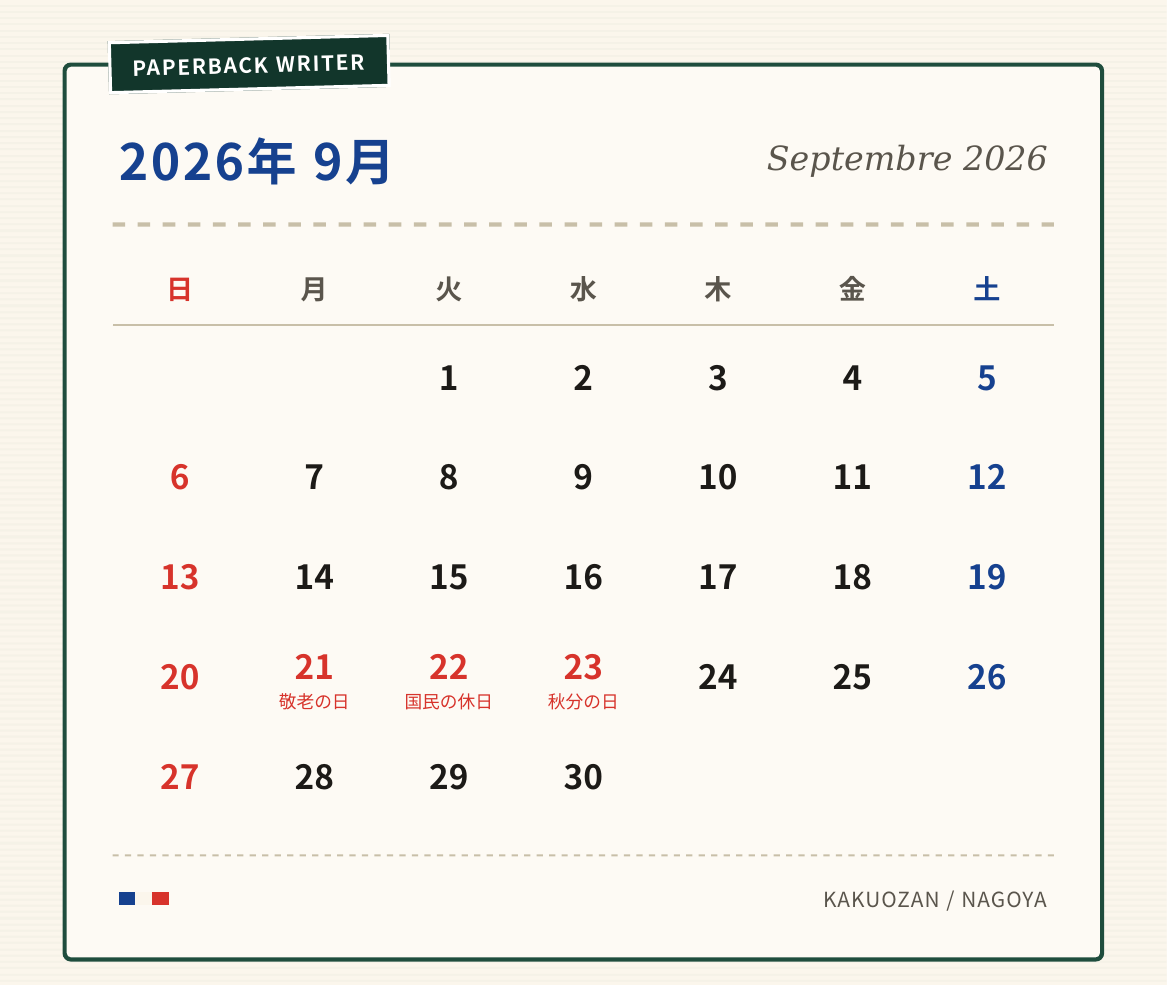
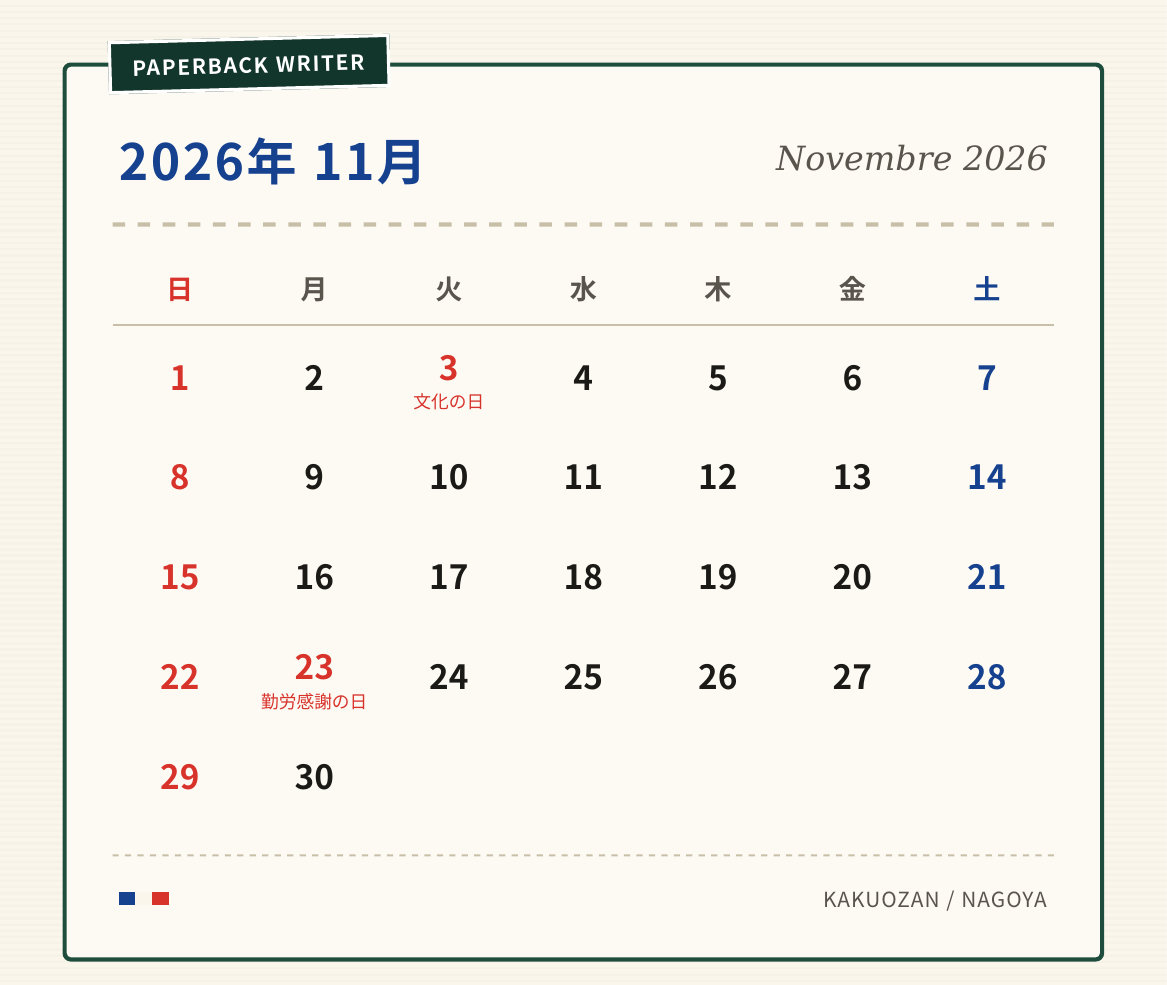
HOMEにスライドショー追加、11月カレンダーに差し替え
- index.html: 店名ブロックとナビの間にスライドショー（slide-1〜3.jpg、5秒ごとフェード自動送り、N°表示のみ）を追加
- slideshow.js: フェード切替ロジック（prefers-reduced-motion対応）
- style.css: .slideshow関連スタイルを追加（モバイル用レスポンシブ調整は維持）
- photos/calendar.png: 2026年11月の営業カレンダーに差し替え
- 地図リンクを正式住所のGoogleマップ検索URLに修正
- README.mdをv3の変更内容に更新

diff --git a/index.html b/index.html
@@ -9,6 +9,7 @@
 <link rel="preconnect" href="https://fonts.gstatic.com" crossorigin>
 <link href="https://fonts.googleapis.com/css2?family=Yusei+Magic&family=Zen+Maru+Gothic:wght@400;500;700&family=Yomogi&family=Klee+One:wght@400;600&family=EB+Garamond:ital@0;1&display=swap" rel="stylesheet">
 <link rel="stylesheet" href="style.css">
+<script src="slideshow.js" defer></script>
 </head>
 <body>
 
@@ -33,6 +34,16 @@
     </div>
   </header>
 
+  <div class="slideshow" data-interval="5000">
+    <span class="crate__hinge" aria-hidden="true"></span>
+    <div class="slideshow__viewport">
+      <figure class="slideshow__slide is-active"><img src="photos/slide-1.jpg" alt="パリの街と本のコラージュ"></figure>
+      <figure class="slideshow__slide"><img src="photos/slide-2.jpg" alt="日本の街と本のコラージュ"></figure>
+      <figure class="slideshow__slide"><img src="photos/slide-3.jpg" alt="本屋の店内と本のコラージュ"></figure>
+    </div>
+    <span class="slideshow__no" aria-hidden="true"><span class="slideshow__cur">N°01</span> / 03</span>
+  </div>
+
   <nav class="nav">
       <a class="navtab is-active" href="index.html" aria-current="page">
         <span class="navtab__en">HOME</span>
@@ -52,7 +63,7 @@
 
   <main>
 
-    <div class="photogrid">
+    <div class="photogrid photogrid--below-slides">
       <figure class="crate">
         <span class="crate__hinge" aria-hidden="true"></span>
         <span class="crate__tag">N°01</span>
@@ -80,7 +91,7 @@
         <figure class="crate crate--calendar">
           <span class="crate__hinge" aria-hidden="true"></span>
           <div class="crate__inner crate__inner--contain">
-            <img src="photos/calendar.png" alt="2026年9月の営業カレンダー">
+            <img src="photos/calendar.png" alt="2026年11月の営業カレンダー">
           </div>
         </figure>
         <div class="hours">
@@ -111,7 +122,7 @@
             <small>覚王山西交差点</small>
           </span>
           <p class="note">２DKのアパートの一室です。階段をあがって、そのまま入ってきてください。</p>
-          <a class="btn btn--outline" href="https://maps.app.goo.gl/U6jhxR1uNAk2UCC28" target="_blank" rel="noopener">地図で見る<span aria-hidden="true">→</span></a>
+          <a class="btn btn--outline" href="https://www.google.com/maps/search/?api=1&amp;query=%E6%84%9B%E7%9F%A5%E7%9C%8C%E5%90%8D%E5%8F%A4%E5%B1%8B%E5%B8%82%E5%8D%83%E7%A8%AE%E5%8C%BA%E8%A6%9A%E7%8E%8B%E5%B1%B1%E9%80%9A9-8-2%20%E3%82%AD%E3%83%AA%E3%83%B3%E5%A0%82%E3%83%93%E3%83%AB201" target="_blank" rel="noopener">地図で見る<span aria-hidden="true">→</span></a>
         </div>
         <figure class="crate crate--map">
           <span class="crate__hinge" aria-hidden="true"></span>

diff --git a/style.css b/style.css
@@ -515,6 +515,45 @@ main > .photogrid:first-child { margin-top: 26px; }
 .footer__copy { font-size: 13px; color: var(--c-ink-faint); }
 
 /* =========================================================
+   スライドショー（HOMEのみ／店名の下・ナビの上）
+   画像比率 2200:1000。フェードで切替、ドット等の操作UIは無し
+   ========================================================= */
+.slideshow {
+  position: relative;
+  margin-top: 30px;
+  aspect-ratio: 2200 / 1000;
+  border: 2px solid var(--c-green);
+  border-radius: 3px;
+  box-shadow: 0 0 0 4px var(--c-paper), 0 0 0 5px var(--c-green);
+}
+.slideshow .crate__hinge { z-index: 4; }
+.slideshow__viewport { position: absolute; inset: 0; overflow: hidden; border-radius: 3px; }
+.slideshow__slide {
+  position: absolute;
+  inset: 0;
+  margin: 0;
+  opacity: 0;
+  z-index: 1;
+  transition: opacity 1.2s ease;
+}
+.slideshow__slide.is-active { opacity: 1; z-index: 2; }
+.slideshow__slide img { width: 100%; height: 100%; object-fit: cover; }
+.slideshow__no {               /* 街路プレート風の枚数表示 */
+  position: absolute;
+  left: 12px; bottom: 12px;
+  z-index: 4;
+  background: var(--c-green-dark);
+  color: var(--c-white);
+  padding: 6px 11px;
+  border: 2px solid var(--c-white);
+  box-shadow: 0 0 0 3px var(--c-green-dark);
+  font: 700 11px/1 var(--f-body);
+  letter-spacing: .08em;
+  transform: rotate(-2deg);
+}
+.photogrid--below-slides { margin-top: 40px; }
+
+/* =========================================================
    レスポンシブ調整（モバイル専用・PC版のスタイルは変更しない）
    ========================================================= */
 @media (max-width: 640px) {

diff --git a/slideshow.js b/slideshow.js
@@ -1,0 +1,16 @@
+// HOMEのスライドショー（フェード切替・自動送り）
+// .slideshow 内の .slideshow__slide を data-interval ミリ秒ごとに順番に表示する
+document.querySelectorAll('.slideshow').forEach((root) => {
+  const slides = [...root.querySelectorAll('.slideshow__slide')];
+  const cur = root.querySelector('.slideshow__cur');
+  const interval = Number(root.dataset.interval) || 5000;
+  if (slides.length < 2) return;
+  if (window.matchMedia('(prefers-reduced-motion: reduce)').matches) return;
+  let i = 0;
+  setInterval(() => {
+    slides[i].classList.remove('is-active');
+    i = (i + 1) % slides.length;
+    slides[i].classList.add('is-active');
+    if (cur) cur.textContent = 'N°' + String(i + 1).padStart(2, '0');
+  }, interval);
+});

diff --git a/README.md b/README.md
@@ -1,46 +1,89 @@
 # ぺいぱばっくらいたー — 実装引き継ぎ資料
 
-名古屋・覚王山の本や「ぺいぱばっくらいたー」の公式サイト（1ページ完結）。
-デザインテーマは **パリのブキニスト（セーヌ河岸の古書箱）／カルチェラタン**、色は **青・白・赤** の三色を軸に、ブキニストの緑をフレーム色として使用。
+名古屋・覚王山の本や「ぺいぱばっくらいたー」の公式サイト。
+デザインテーマは **パリのブキニスト（セーヌ河岸の古書箱）／カルチェラタン**、色は **青・白・赤** の三色を軸に、ブキニストの緑をフレーム色として使用。装飾はすべてCSSで描画しており、イラストやアイコン画像は使っていません。
+
+---
+
+## 0. 最新の変更点（v3 — 今回）
+
+前回（v2・3ページ版）からの差分です。**まずここを反映してください。**
+
+| # | 変更 |
+|---|---|
+| 1 | **HOMEにスライドショーを追加**。位置は**店名ブロック（.hero）の下、ナビ（.nav）の上**。HOME（index.html）のみで、books.html / about.html には入れない |
+| 2 | スライドは3枚：`photos/slide-1.jpg`（パリの街と本）、`slide-2.jpg`（日本の街と本）、`slide-3.jpg`（本屋の店内と本）。比率は **2200:1000**（`aspect-ratio: 2200/1000`、`object-fit: cover`） |
+| 3 | 切替は**フェード（opacity 1.2s ease）で5秒ごとに自動送り**。ドット・矢印などの操作UIは**付けない**（意図的に削除済み）。左下に街路プレート風の枚数表示「N°01 / 03」のみ |
+| 4 | 動作は新規ファイル `slideshow.js`（約15行・依存なし）。`index.html` の `<head>` で `defer` 読み込み。`prefers-reduced-motion` 時は自動送りしない |
+| 5 | 枠は古書箱フレーム（.crate と同じ緑の二重枠＋蝶番）。CSSは `style.css` 末尾の「スライドショー」ブロック |
+| 6 | 写真3枚グリッドはスライドの下にそのまま残す。間隔を `margin-top: 40px` に（`.photogrid--below-slides`） |
+| 7 | **カレンダーを2026年11月に差し替え**（`photos/calendar.png`）。比率は前回と同じ 1167:985 |
+| 8 | `slide-2.jpg` / `slide-3.jpg` は幅512pxと小さく、大画面ではぼやける。2200px幅の元画像が届いたら同名で上書きするだけで差し替わる |
+
+---
+
+## 0-b. v1 → v2 の変更点（参考）
+
+前回の引き継ぎは1ページ完結でした。今回**3ページ構成に分割**し、内容も移動・変更しています。差分は以下のとおりです。
+
+| # | 変更 |
+|---|---|
+| 1 | **1ページ完結 → 3ページ構成**。`index.html` / `books.html` / `about.html` の3枚に分割。共通のヘッダー・ナビ・フッターを各ページに複製（SSGなし・素のHTML） |
+| 2 | **ナビを新設**。街路プレート風のタブ3枚（HOME / BOOKS / ABOUT US）。英字ラベル＋日本語サブラベルの2段組。現在ページは `.is-active`（緑地・白文字・浮き上がる影）で明示 |
+| 3 | **「入口」という名称を廃止し HOME に**。1ページ目のラベルは「HOME / 店舗案内・営業日」 |
+| 4 | **「場所」セクションを「店舗案内」に改称し、ABOUT → HOME へ移動**。HOMEは 写真3枚 → 営業スケジュール → 店舗案内 の順 |
+| 5 | **本の紹介のレイアウトを全面変更**。旧：1列280pxの縦積みカード（書影104×148px）。新：`minmax(150px,1fr)` の表紙グリッドで、3:4の書影を大きく並べタイトルを下に置く（タバネルブックス参照）。余白が目立つ問題を解消 |
+| 6 | **書影の高さ揺れを修正**。`.book__cover` に `overflow:hidden`、`img` を `position:absolute;inset:0;object-fit:cover` に。`aspect-ratio` は上限ではないため、これを付けないと画像の固有比で枠が伸び、行内で高さがバラつく |
+| 7 | **カレンダー画像を実データに差し替え**。`photos/calendar.png`（2026年9月）。下余白をトリミング済みで、枠は `aspect-ratio:1167/985` と実寸に一致。**毎月この1ファイルを差し替える運用**（比率が変わる場合は `.crate--calendar` の `aspect-ratio` も合わせる） |
+| 8 | **住所を正式表記に修正**。旧「名古屋市 覚王山／覚王山西交差点／キリン堂ビル2階」→ **愛知県名古屋市千種区覚王山通9-8-2 キリン堂ビル201** |
+| 9 | **地図をGoogleマップの埋め込みに変更**。旧：画像プレースホルダー。新：`<iframe src="https://maps.google.com/maps?q=…&z=17&output=embed">`。「地図で見る」ボタンのリンク先も上記の正式住所に修正 |
+| 10 | **ほんまるの1行リンクを BOOKS ページへ移動**（ページ下部、点線区切りの控えめな扱いは維持） |
+| 11 | **写真のファイル名と中身の不一致を修正**。`photos/books-room.jpg` が実際には**入口の木看板**、`photos/entrance.jpg` が**本の間**の写真です。ファイル名は直さず `src` と `alt` を入れ替えて対処済み。ファイル名をリネームする場合は3ページ分の `src` を合わせて直してください |
+| 12 | `--sp-section` を 86px → **70px** に圧縮（ページ分割で1ページの情報量が減ったため） |
 
 ---
 
 ## 1. ファイル構成
 
 ```
-index.html          セマンティックなHTML（インラインCSSなし）
-style.css           全スタイル（CSS変数でトークン管理）
+index.html          HOME（写真3枚／営業スケジュール／店舗案内）
+books.html          BOOKS（本の紹介／ほんまるへのリンク）
+about.html          ABOUT US（お店のこと／お問い合わせ）
+style.css           全スタイル（CSS変数でトークン管理・インラインCSSなし）
+slideshow.js        HOMEのスライドショー（フェード・5秒自動送り）
 photos/
-  entrance.jpg      店の入口の看板（手描きの木看板＋カエル＋赤いP）
-  books-room.jpg    新本・古本・雑貨の間（本棚が並ぶ畳の部屋）
-  kamishibai.jpg    かみしばいの間（畳＋テント＋絵本）
-  calendar.png      ★未入稿：今月の営業カレンダー（毎月差し替える）
-  map.png           ★未入稿：お店周辺の地図または目印の写真
+  entrance.jpg      新本・古本・雑貨の間 ※名前と中身が逆（上記#11）
+  books-room.jpg    店の入口の看板     ※名前と中身が逆（上記#11）
+  kamishibai.jpg    かみしばいの間
+  calendar.png      2026年11月の営業カレンダー（毎月差し替え）
+  slide-1.jpg       スライド1：パリの街と本のコラージュ（2200×1000）
+  slide-2.jpg       スライド2：日本の街と本のコラージュ（512×217・要高解像度版）
+  slide-3.jpg       スライド3：本屋の店内と本のコラージュ（512×217・要高解像度版）
 books/
   boxer.webp        書影：ボクサー : イランの絵本
   yamiisha.webp     書影：闇医者おえん秘録帖
   shinkansen.webp   書影：新幹線から見えたすき家へカレーを食べに行く
 ```
 
-★のファイルは未入稿。`index.html` 内の `<img>` は既に参照済みなので、画像を置けば表示される。
+未入稿は書影4点（鈍獣／ジョン・バーリコーン／ねこのセーター／仮面紳士）。`.book__cover--empty` の空枠で場所を確保しているので、画像が届いたら枠の中に `<img src="…" alt="…">` を1行足すだけで入ります（番号タグ `.book__num` はそのまま）。
 
 ---
 
 ## 2. フォント
 
-Google Fonts から5書体を読み込み（`index.html` の `<link>`）。
+Google Fonts から5書体。各ページの `<head>` に同じ `<link>`。
 
 | 用途 | フォント | ウェイト | CSS変数 |
 |---|---|---|---|
 | 店名（h1） | Klee One | 600 | `--f-hand` |
-| セクション見出し・営業時間・CTA | Yusei Magic | 400 | `--f-display` |
-| 本文・プレート・タグ | Zen Maru Gothic | 400 / 500 / 700 | `--f-body` |
+| セクション見出し・営業時間・CTA・フッター | Yusei Magic | 400 | `--f-display` |
+| 本文・プレート・ナビ | Zen Maru Gothic | 400 / 500 / 700 | `--f-body` |
 | 本の番号タグ | Yomogi | 400 | `--f-tag` |
-| 欧文スタンプ（italic） | EB Garamond | 400 italic | `--f-latin` |
+| 欧文（ナビ英字・チケットスタンプ） | EB Garamond | 400 / italic | `--f-latin` |
 
-**注意:** Yusei Magic と Klee One は太字ウェイトを持たないため、力強さは `-webkit-text-stroke: 1.4px`（h1・h2）と `0.8px`（paperback writer）で出している。Safari/Chrome前提。Firefoxでは効かないので、必要なら `text-shadow` によるフォールバックを検討。
+**太字について:** Yusei Magic と Klee One に太字ウェイトが無いため、力強さは `-webkit-text-stroke` で出しています（h1・h2 = 1.4px、paperback writer = 0.8px）。Chrome/Safari前提。Firefoxでは効かないので、必要なら `text-shadow` でフォールバックしてください。
 
-**ファイルサイズ注意:** 日本語フォントは全字セットだと非常に重い。本番では Google Fonts URL に `&text=` パラメータで使用文字のみを指定することを推奨（元の実装ではそうしていた）。
+**ファイルサイズ注意:** 日本語フォントは全字セットだと非常に重い（オフライン版が20MB超になりました）。本番では Google Fonts URL に `&text=` で使用文字のみを指定するか、サブセット済みフォントをセルフホストしてください。
 
 ---
 
@@ -50,8 +93,8 @@ Google Fonts から5書体を読み込み（`index.html` の `<link>`）。
 |---|---|---|
 | 主色（見出し・リンク） | `#16418f` | `--c-blue` |
 | 副色（アクセント・CTA） | `#d7332b` | `--c-red` |
-| ブキニストの緑（フレーム・装飾） | `#1f4d3d` | `--c-green` |
-| 街路プレートの緑 | `#12362b` | `--c-green-dark` |
+| ブキニストの緑（フレーム・装飾・ナビ） | `#1f4d3d` | `--c-green` |
+| 街路プレートの緑（ナビ選択時） | `#12362b` | `--c-green-dark` |
 | 背景（紙色） | `#fbf6ec` | `--c-paper` |
 | カード背景 | `#fdfaf4` | `--c-card` |
 | 本文 | `#1c1a17` | `--c-ink` |
@@ -59,7 +102,6 @@ Google Fonts から5書体を読み込み（`index.html` の `<link>`）。
 | コピーライト等 | `#8a8478` | `--c-ink-faint` |
 | 点線罫 | `#c8bfa8` | `--c-line` |
 | 書影の枠線 | `#d8d1bf` | `--c-cover-edge` |
-| 白 | `#ffffff` | `--c-white` |
 
 リンク: 既定 `#16418f` / hover `#d7332b`。
 
@@ -71,97 +113,78 @@ Google Fonts から5書体を読み込み（`index.html` の `<link>`）。
 |---|---|---|
 | コンテンツ最大幅 | 960px | `--page-max` |
 | 左右パディング | 20px | `--page-pad` |
-| セクション間の余白 | 86px | `--sp-section` |
+| セクション間 | 70px | `--sp-section` |
 | セクション内ブロック間 | 30px | `--sp-block` |
 | 2カラムの間隔 | 26px | `--sp-gap` |
-| 下部パディング | 90px | — |
 
 **主要サイズ**
 
-- 写真グリッド: `repeat(auto-fit, minmax(220px, 1fr))` / gap 12px / 各カード高さ 280px
-- 2カラム: `repeat(auto-fit, minmax(260px, 1fr))`
-- 本カードグリッド: `repeat(auto-fit, minmax(280px, 1fr))` / gap 2px（緑地を罫線として見せる）
-- 本カード padding: 26px 22px / 内部 gap 12px
-- 書影: 104 × 148px（`object-fit: cover`）
-- カレンダー枠: `aspect-ratio: 1/1`（`object-fit: contain`）
+- 写真グリッド: `repeat(auto-fit, minmax(220px,1fr))` / gap 12px / 高さ280px
+- 2カラム（カレンダー・店舗案内）: `repeat(auto-fit, minmax(260px,1fr))`
+- 本グリッド: `repeat(auto-fill, minmax(150px,1fr))` / gap 28px 20px
+- 書影: `aspect-ratio: 3/4`（`overflow:hidden` + absolute img で厳密固定）
+- カレンダー枠: `aspect-ratio: 1167/985`（画像実寸）／`object-fit: contain`
 - 地図枠: `aspect-ratio: 4/3`
 - 丸スタンプ: LIBRAIRIE 76px / KAMISHIBAI 66px
+- ナビタブ: padding 11px 18px、`rotate(-1deg)`、英字19px／日本語10.5px
 - ボタン: padding 16px 24px、`border-radius: 999px`
 
 **流動タイポグラフィ（clamp）**
 
-- h1（店名）: `clamp(28px, 6.4vw, 80px)`
-- h2（見出し）: `clamp(26px, 4vw, 40px)`
-- paperback writer: `clamp(16px, 2.4vw, 24px)`
-- 紹介文: `clamp(16px, 1.9vw, 19px)`、`line-height: 2.1`
-- 営業時間: `clamp(24px, 3.6vw, 34px)`
-- 住所: `clamp(20px, 2.8vw, 27px)`
+- h1（店名）`clamp(28px, 6.4vw, 80px)` / h2 `clamp(26px, 4vw, 40px)`
+- paperback writer `clamp(16px, 2.4vw, 24px)`
+- 紹介文 `clamp(16px, 1.9vw, 19px)`（`line-height: 2.1`）
+- 営業時間 `clamp(24px, 3.6vw, 34px)` / 住所 `clamp(20px, 2.8vw, 27px)`
 
 ---
 
-## 5. 画像・装飾の用途
-
-**写真（実写・3枚 + 未入稿2枚）**
-
-| ファイル | 用途 |
-|---|---|
-| `photos/entrance.jpg` | メインビジュアル1枚目。店の入口の看板 |
-| `photos/books-room.jpg` | メインビジュアル2枚目。新本・古本・雑貨の間 |
-| `photos/kamishibai.jpg` | メインビジュアル3枚目。かみしばいの間 |
-| `photos/calendar.png` | 営業スケジュールの月間カレンダー（毎月差し替え運用） |
-| `photos/map.png` | 場所セクションの地図・目印 |
-
-**書影（4冊は未入手）**
-
-`books/boxer.webp` `books/yamiisha.webp` `books/shinkansen.webp` の3点のみ実画像。鈍獣・ジョン・バーリコーン・ねこのセーター・仮面紳士は `.book__cover--empty` の空枠（104×148px）で場所を確保している。画像が用意できたら `<div class="book__cover book__cover--empty">` を `<img class="book__cover" src="…" alt="…">` に置き換える。
-
-**アイコン・イラストは使用していない。装飾はすべてCSSで描画。**
+## 5. CSSで描いている装飾
 
 | クラス | 内容 |
 |---|---|
-| `.awning` | ページ最上部のカフェ天幕ストライプ＋スカラップ（`repeating-linear-gradient` + `repeating-radial-gradient`） |
-| `.tricolore` | 青・白・赤の三色ライン（flexで3分割） |
+| `.awning` | 最上部のカフェ天幕ストライプ＋スカラップ |
+| `.tricolore` | 青・白・赤の三色ライン |
 | `.tiles` | ビストロの市松タイル帯（`repeating-conic-gradient`） |
-| `.spines` | 本の背表紙が並ぶストライプ帯 |
-| `.plate` | パリの街路プレート（緑地・白フチ・二重shadow）× 3箇所 |
-| `.stamp--dashed` | 破線の丸スタンプ「LIBRAIRIE」 |
-| `.stamp--ticket` | チケット風の黒丸スタンプ「KAMISHIBAI」（上下にスプロケット穴） |
-| `.crate` | 古書箱フレーム（緑の二重枠 + 上辺の蝶番 `.crate__hinge` + 箱番号タグ `.crate__tag`） |
-| `.section__dash` + `.section__fleur` | 見出し横の点線罫 + フルール・ド・リス（`⚜` テキスト） |
+| `.spines` | 本の背表紙が並ぶストライプ帯（BOOKSページ下部） |
+| `.plate` | パリの街路プレート（緑地・白フチ・二重shadow）。ヘッダー「RUE DU KAKUOZAN」と店舗案内「KAKUOZAN NISHI」 |
+| `.navtab` | 同じプレート意匠のナビタブ |
+| `.stamp--dashed` | 店名横の破線丸スタンプ「LIBRAIRIE」 |
+| `.stamp--ticket` | BOOKSのチケット風黒丸スタンプ「KAMISHIBAI」（上下にスプロケット穴） |
+| `.crate` | 古書箱フレーム（緑の二重枠＋蝶番 `.crate__hinge` ＋箱番号タグ `.crate__tag`） |
+| `.section__dash` / `.section__fleur` | 見出し横の点線罫＋フルール・ド・リス（`⚜` U+269C のテキスト。フォント依存） |
 | `.contact` | 切手の裏のような斜めハッチ背景 |
-| `.book__num::before` | 吊り下げ札風の番号タグの穴 |
-
-唯一の絵文字的グリフは `⚜`（U+269C, FLEUR-DE-LIS）。テキストとして出力しているのでフォント依存。
+| `.book__num` | 吊り下げ札風の番号タグ |
+| `body` の背景 | 紙の目のような極薄横罫 |
 
 ---
 
-## 6. ページ構成（上から順）
+## 6. 各ページの構成（上から順）
 
-1. **装飾帯** — カフェ天幕ストライプ＋スカラップ
-2. **装飾帯** — トリコロールライン
-3. **ヘッダー**（`<header class="hero">`）
-   - アイブロウ「NAGOYA · KAKUOZAN」＋街路プレート「RUE DU KAKUOZAN」
-   - h1 店名「ぺいぱばっくらいたー」＋丸スタンプ「LIBRAIRIE」
-   - 「paperback writer」／タグライン「新本・古本・雑貨と、かみしばいの部屋」
-4. **装飾帯** — ビストロタイル
-5. **メインビジュアル** — 古書箱フレームの写真3枚（入口 / 本の間 / かみしばいの間）
-6. **お店のこと** — 紹介文（店主の文章を原文どおり掲載）
-7. **営業スケジュール** — カレンダー画像 ＋ OPEN 金・土・日・月 11:00–16:00 / CLOSED 火・水・木 / 現金のみの注記
-8. **本のこと** — 街路プレート「LIBRAIRIE」＋チケットスタンプ「KAMISHIBAI」／本カード7点（**リンクなし・クリック不可**）＋「棚の本はお店で。」の赤いCTAタイル
-9. **装飾帯** — 本の背表紙ストライプ
-10. **場所** — 住所（覚王山西交差点 キリン堂ビル2階）／街路プレート「KAKUOZAN NISHI」／Googleマップへのリンク／地図画像
-11. **ほんまる** — 神保町「ほんまる」への控えめな1行リンク（点線区切り、支店的な扱い）
-12. **お問い合わせ** — Instagram（@honya.paperbackwriter）／公式LINE（`https://lin.ee/8o9iqLu`）
-13. **フッター** — 緑プレートの店名 ／ © paperback writer / 名古屋 覚王山
+### 共通（3ページとも）
+天幕ストライプ → トリコロール → ヘッダー（NAGOYA · KAKUOZAN ＋ RUE DU KAKUOZAN プレート／h1 店名＋LIBRAIRIEスタンプ／paperback writer＋タグライン） → ナビ3タブ → 市松タイル帯 →〈各ページ本文〉→ 緑の帯 → フッター（緑プレートの店名／コピーライト）
 
-**ナビゲーションは無し**（1ページ完結、スクロールのみ）。
+### index.html（HOME）
+0. **スライドショー**（店名の下・ナビの上。HOMEのみ）
+1. 古書箱フレームの写真3枚（入口の看板 / 本の間 / かみしばいの間）
+2. 営業スケジュール — カレンダー画像 ＋ OPEN 金土日月 11:00–16:00 / CLOSED 火水木 / 現金のみの注記
+3. 店舗案内 — 住所／KAKUOZAN NISHI プレート／道案内／「地図で見る」ボタン／Googleマップ埋め込み
+
+### books.html（BOOKS）
+1. 本の紹介 — KAMISHIBAI スタンプ／リード文／表紙グリッド7点＋「棚の本はお店で。」の赤タイル
+2. 背表紙ストライプ帯
+3. ほんまるへの1行リンク（点線区切り、支店的な控えめな扱い）
+
+### about.html（ABOUT US）
+1. お店のこと — 店主の紹介文（**原文どおり。書き換えないでください**）
+2. お問い合わせ — Instagram / 公式LINE
 
 ---
 
 ## 7. 実装上の注意
 
-- **本の紹介はリンクを張らない。** 以前は「ほんまる」の書籍ページへ飛んでいたが、飛ばさない仕様に変更済み。`<li class="book">` は非インタラクティブ。
-- 外部リンクは3つのみ: Googleマップ検索、ほんまるの棚（`/jinbocho/shelf/419`）、Instagram、公式LINE。すべて `target="_blank" rel="noopener"`。
-- `lin.ee` の短縮リンクは環境によりブラウザから直接開けない場合がある（LINEアプリ内遷移を前提としているため）。実機での動作確認を推奨。
-- 全レイアウトは `auto-fit` グリッドと flex `gap` で組んでおり、固定幅は書影・スタンプ・タグのみ。狭い画面でも1カラムに落ちる。
-- カレンダー画像は毎月差し替える運用。`photos/calendar.png` を上書きするだけで済むようにしている。
+- **本の紹介にリンクは張らない。** 以前は「ほんまる」の書籍ページへ飛んでいましたが、飛ばさない仕様です。`<li class="book">` は非インタラクティブ。
+- 外部リンクは4つのみ: Googleマップ検索、ほんまるの棚（`/jinbocho/shelf/419`）、Instagram（`@honya.paperbackwriter`）、公式LINE（`https://lin.ee/8o9iqLu`）。すべて `target="_blank" rel="noopener"`。
+- `lin.ee` の短縮リンクは環境によりPCブラウザから直接開けないことがあります（LINEアプリ内遷移を前提とした挙動）。実機で確認してください。
+- **Googleマップ埋め込みはネット接続が必要。** オフライン配布版では表示されません。オフライン版を作るなら地図はスクリーンショット画像＋リンクに差し替えてください。
+- レイアウトは `auto-fit`/`auto-fill` グリッドと flex `gap` のみ。固定幅はスタンプ・タグだけなので、狭い画面でも1カラムに落ちます。
+- ナビは素の `<a href>` によるページ遷移です。SPAにする場合は `.is-active` の付与ロジックだけ移植すれば見た目は保てます。
